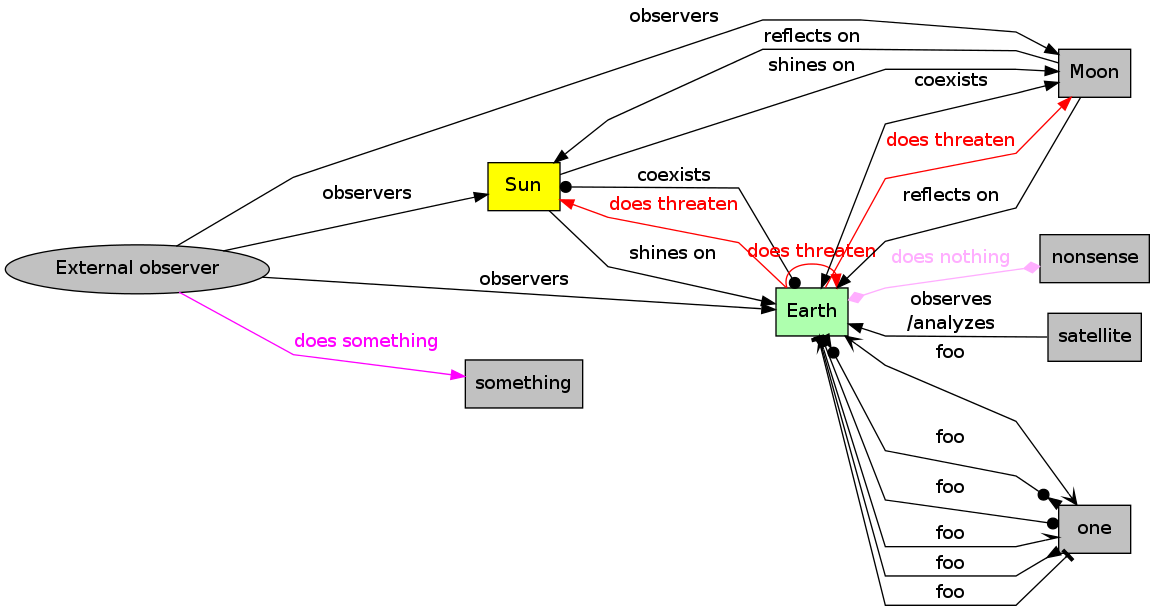
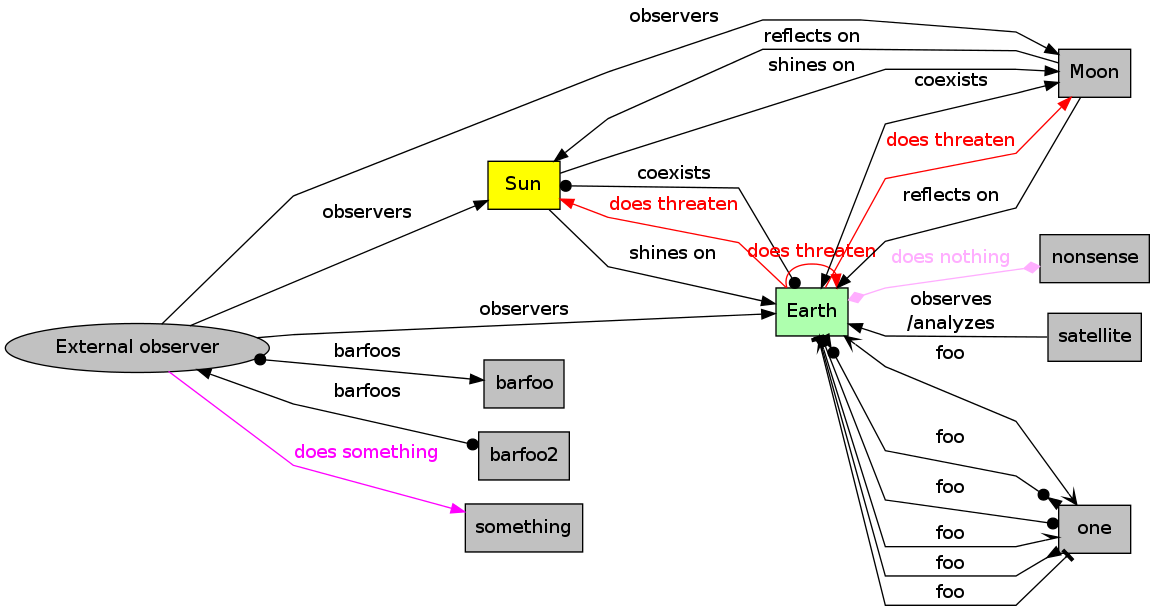
Add rudimentary support for odd arrowhead/arrowtail combinations

diff --git a/graph.py b/graph.py
@@ -40,6 +40,92 @@ class Graph(object):
             '<<>>': 'vee',
             '>o-o<': 'invdot',
             }
+        # Only some unequal `arrowhead'/`arrowtail' combinations are
+        # supported. All combinations of a filled `arrowtail' and a filled
+        # `dot' `arrowhead' are available, though, since they may appear
+        # more frequently than other combinations.
+        # `Graph._double_arrow_unequal_symbols' can be extended at will,
+        # though by adding a dictionary entry which has the following
+        # structure:
+        #
+        #   '<symbol>': {
+        #       'arrowtail': '<arrowhead descriptor>',
+        #       'arrowhead': '<arrowtail descriptor>',
+        #       },
+        self._double_arrow_unequal_symbols = {
+            'o->': {
+                'arrowtail': 'dot',
+                'arrowhead': 'normal',
+                },
+            '<-o': {
+                'arrowtail': 'normal',
+                'arrowhead': 'dot',
+                },
+
+            '<-[]': {
+                'arrowtail': 'normal',
+                'arrowhead': 'box',
+                },
+            '[]->': {
+                'arrowtail': 'box',
+                'arrowhead': 'normal',
+                },
+
+            '<-<>': {
+                'arrowtail': 'normal',
+                'arrowhead': 'diamond',
+                },
+            '<>->': {
+                'arrowtail': 'diamond',
+                'arrowhead': 'normal',
+                },
+
+            '>>->': {
+                'arrowtail': 'vee',
+                'arrowhead': 'normal',
+                },
+            '<->>': {
+                'arrowtail': 'normal',
+                'arrowhead': 'vee',
+                },
+
+            '>o->': {
+                'arrowtail': 'invdot',
+                'arrowhead': 'normal',
+                },
+            '<-o<': {
+                'arrowtail': 'normal',
+                'arrowhead': 'invdot',
+                },
+
+            '|->': {
+                'arrowtail': 'tee',
+                'arrowhead': 'normal',
+                },
+            '<-|': {
+                'arrowtail': 'normal',
+                'arrowhead': 'tee',
+                },
+
+            '/->': {
+                'arrowtail': 'halfopen',
+                'arrowhead': 'normal',
+                },
+            '<-\\': {
+                'arrowtail': 'normal',
+                'arrowhead': 'halfopen',
+                },
+
+            '>->': {
+                'arrowtail': 'crow',
+                'arrowhead': 'normal',
+                },
+            '<-<': {
+                'arrowtail': 'normal',
+                'arrowhead': 'crow',
+                },
+
+            }
 
     def draw(self):
         for key in self.structure.keys():
@@ -136,6 +222,11 @@ class Graph(object):
             edge.__getattribute__('set_arrowtail')(
                 self._double_arrow_symbols[symbol])
             edge.__getattribute__('set_dir')('both')
+        elif symbol in self._double_arrow_unequal_symbols:
+            for attr in self._double_arrow_unequal_symbols[symbol].keys():
+                edge.__getattribute__('set_dir')('both')
+                edge.__getattribute__('set_' + attr)(
+                    self._double_arrow_unequal_symbols[symbol][attr])
         else:
             # In theory, this should work:
             #
@@ -287,6 +378,8 @@ if __name__ == '__main__':
                 'fillcolor': '#AEFFAE',
                 }],
         observer: [
+            ['o->', 'barfoo', 'barfoos'],
+            ['<-o', 'barfoo2', 'barfoos'],
             ['->', sun, 'observers'],
             ['->', moon, 'observers'],
             ['->', earth, 'observers'],
